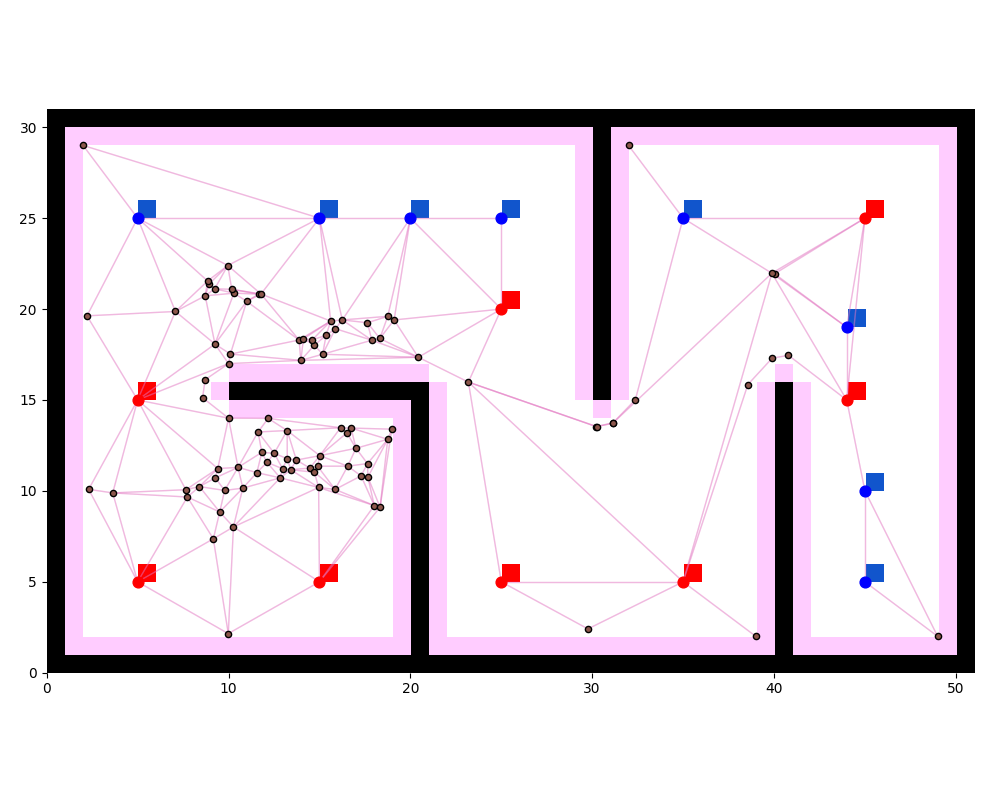
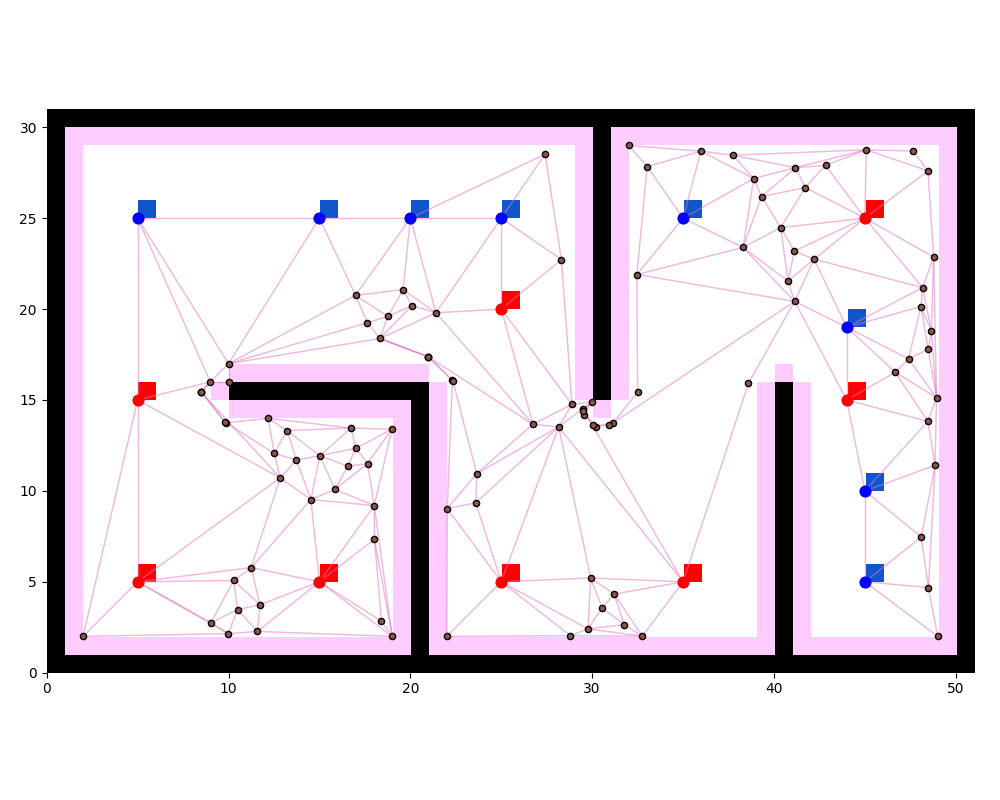
Using a duplicate radius to spread clusters

diff --git a/path_planning/cluster/em/graph_em.py b/path_planning/cluster/em/graph_em.py
@@ -17,6 +17,13 @@ components:
   the member node nearest the mean, so a center never sits inside an
   obstacle.
 
+EM has no repulsion between components — co-located duplicates are a
+stationary point of the likelihood — so free anchors additionally keep a
+minimum Euclidean spacing ``dup_radius``: a free component whose updated
+anchor would land within that radius of an already-placed anchor is
+treated as a duplicate and re-seeded at the node farthest from every
+anchor (the same rescue empty components get).
+
 Because Dijkstra needs graph sources, every component is anchored to a
 roadmap node (``center_node_indices``); the continuous ``centers`` are
 reporting/consumer-facing positions. After :meth:`fit`, one final
@@ -65,6 +72,11 @@ class GraphEM:
             is not strictly monotone across them).
         min_sigma: Floor on every component's sigma, preventing variance
             collapse onto a single node (default: the map resolution).
+        dup_radius: Minimum Euclidean spacing between anchors. A free
+            component whose updated anchor would land within this distance
+            of an already-placed anchor is re-seeded at the node farthest
+            from every anchor instead of duplicating it (default: the map
+            resolution; 0 disables the guard).
         init: Top-up seeding for the free components — ``"kpp"`` samples
             nodes with probability proportional to squared graph distance
             from the current anchors (k-means++ style, reproducible via the
@@ -104,6 +116,7 @@ class GraphEM:
         max_iters: int = 50,
         tol: float = 1e-6,
         min_sigma: Optional[float] = None,
+        dup_radius: Optional[float] = None,
         init: str = "kpp",
     ) -> None:
         if init not in _INIT_MODES:
@@ -126,6 +139,13 @@ class GraphEM:
         )
         if self.min_sigma <= 0.0:
             raise ValueError(f"min_sigma must be > 0, got {self.min_sigma}")
+        self.dup_radius = (
+            float(dup_radius)
+            if dup_radius is not None
+            else float(getattr(graph_map, "resolution", 1.0))
+        )
+        if self.dup_radius < 0.0:
+            raise ValueError(f"dup_radius must be >= 0, got {self.dup_radius}")
         self.init = init
 
         self._points = np.asarray([n.current for n in graph_map.nodes], dtype=float)
@@ -263,9 +283,16 @@ class GraphEM:
         Each extra anchor is drawn from the current graph-Voronoi residual:
         squared graph distance to the nearest existing anchor, sampled
         (``"kpp"``) or maximized (``"farthest"``). A drawn node has positive
-        distance, so it can never duplicate an existing anchor.
+        distance, so it can never duplicate an existing anchor; nodes
+        within ``dup_radius`` of one are also excluded while any other
+        candidate remains.
         """
         sources = list(fixed)
+        min_euclid = np.full(len(self._points), np.inf)
+        for s in sources:
+            min_euclid = np.minimum(
+                min_euclid, np.linalg.norm(self._points - self._points[s], axis=1)
+            )
         while len(sources) < self.n_clusters:
             _, dist, _ = multi_source_dijkstra(self._adj, sources)
             w = np.where(np.isfinite(dist), dist, 0.0) ** 2
@@ -278,11 +305,18 @@ class GraphEM:
                 )
                 self.n_clusters = len(sources)
                 break
+            spaced = np.where(min_euclid >= self.dup_radius, w, 0.0)
+            spaced_total = float(spaced.sum())
+            if spaced_total > 0.0:
+                w, total = spaced, spaced_total
             if self.init == "kpp":
                 nxt = int(np.random.choice(len(w), p=w / total))
             else:
                 nxt = int(np.argmax(w))
             sources.append(nxt)
+            min_euclid = np.minimum(
+                min_euclid, np.linalg.norm(self._points - self._points[nxt], axis=1)
+            )
         return sources
 
     def _init_params(self, sources: List[int]) -> Tuple[np.ndarray, np.ndarray]:
@@ -362,7 +396,10 @@ class GraphEM:
 
         Free anchors snap to the hard-member (argmax-responsibility) node
         nearest the weighted mean — hard members belong to exactly one
-        component, so anchors can never collide across components.
+        component, so anchors can never collide across components. An
+        anchor that would still land within ``dup_radius`` of an
+        already-placed one is a duplicate (EM never separates co-located
+        components) and is re-seeded like an empty component.
         """
         n_reach = max(int(reachable.sum()), 1)
         r = resp[:, reachable]
@@ -377,24 +414,33 @@ class GraphEM:
         hard[reachable] = np.argmax(resp[:, reachable], axis=0)
         new_sources = list(sources)
         taken = set(sources[:num_fixed])
+        placed = [self._points[s] for s in sources[:num_fixed]]
         min_dist = np.min(D, axis=0)
         global_rms = float(np.sqrt(np.mean(np.square(min_dist[reachable]))))
+
+        def reseed(k: int, reason: str) -> None:
+            cand = self._reseed_node(min_dist, taken, placed)
+            if cand is None:
+                logger.warning(
+                    "component %d is %s and cannot be re-seeded", k, reason
+                )
+                taken.add(new_sources[k])
+                placed.append(self._points[new_sources[k]])
+                return
+            new_sources[k] = cand
+            centers[k] = self._points[cand]
+            snapped[k] = True
+            taken.add(cand)
+            placed.append(self._points[cand])
+            # Give the re-seeded component a fresh chance in the next
+            # E-step instead of the starved parameters it converged to.
+            weights[k] = 1.0 / len(sources)
+            sigmas[k] = max(global_rms, self.min_sigma)
+
         for k in range(num_fixed, len(sources)):
             members = np.flatnonzero(hard == k)
             if members.size == 0:
-                cand = self._reseed_node(min_dist, taken)
-                if cand is None:
-                    logger.warning("component %d is empty and cannot be re-seeded", k)
-                    taken.add(new_sources[k])
-                    continue
-                new_sources[k] = cand
-                centers[k] = self._points[cand]
-                snapped[k] = True
-                taken.add(cand)
-                # Give the re-seeded component a fresh chance in the next
-                # E-step instead of the starved parameters it converged to.
-                weights[k] = 1.0 / len(sources)
-                sigmas[k] = max(global_rms, self.min_sigma)
+                reseed(k, "empty")
                 continue
             w_members = resp[k, members]
             mean = (
@@ -404,8 +450,12 @@ class GraphEM:
             nearest = int(
                 members[np.argmin(np.linalg.norm(self._points[members] - mean, axis=1))]
             )
+            if self._too_close(self._points[nearest], placed):
+                reseed(k, "a duplicate")
+                continue
             new_sources[k] = nearest
             taken.add(nearest)
+            placed.append(self._points[nearest])
             if self.map.point_expandable(tuple(mean)):
                 centers[k] = mean
                 snapped[k] = False
@@ -414,11 +464,30 @@ class GraphEM:
                 snapped[k] = True
         return weights / weights.sum(), sigmas, new_sources
 
-    def _reseed_node(self, min_dist: np.ndarray, taken: set) -> Optional[int]:
-        """Reachable node farthest from every anchor, not already an anchor."""
+    def _too_close(self, pos: np.ndarray, placed: List[np.ndarray]) -> bool:
+        """True if ``pos`` is within ``dup_radius`` of a placed anchor."""
+        if self.dup_radius <= 0.0 or not placed:
+            return False
+        d = np.linalg.norm(np.asarray(placed) - pos, axis=1)
+        return bool(np.min(d) < self.dup_radius)
+
+    def _reseed_node(
+        self, min_dist: np.ndarray, taken: set, placed: List[np.ndarray]
+    ) -> Optional[int]:
+        """Reachable node farthest from every anchor, not already an anchor.
+
+        Candidates within ``dup_radius`` of a placed anchor are skipped
+        while a spaced alternative exists; if none does, the farthest
+        non-anchor node is returned regardless.
+        """
         order = np.argsort(min_dist)[::-1]
+        fallback = None
         for idx in order:
             idx = int(idx)
-            if np.isfinite(min_dist[idx]) and min_dist[idx] > 0.0 and idx not in taken:
+            if not np.isfinite(min_dist[idx]) or min_dist[idx] <= 0.0 or idx in taken:
+                continue
+            if fallback is None:
+                fallback = idx
+            if not self._too_close(self._points[idx], placed):
                 return idx
-        return None
+        return fallback

diff --git a/tests/test_em.py b/tests/test_em.py
@@ -155,6 +155,18 @@ class TestGraphEM(unittest.TestCase):
             elif cx >= block_hi:
                 self.assertTrue(np.all(band[:, 0] > block_lo))
 
+    def test_free_anchor_spacing(self):
+        # Duplicate guard: EM never separates co-located components, so
+        # anchors must keep at least dup_radius of Euclidean spacing even
+        # at high K (without the guard most free anchors collapse into
+        # near-duplicate pairs).
+        set_global_seed(3)
+        em = GraphEM(self.map_, len(SEEDS) + 20).fit(SEEDS)
+        anchors = em._points[em.center_node_indices]
+        d = np.linalg.norm(anchors[:, None, :] - anchors[None, :, :], axis=2)
+        d[np.diag_indices_from(d)] = np.inf
+        self.assertGreaterEqual(float(d.min()), em.dup_radius)
+
     def test_reproducibility(self):
         set_global_seed(7)
         a = GraphEM(self.map_, K).fit(SEEDS)
@@ -174,6 +186,8 @@ class TestGraphEM(unittest.TestCase):
             GraphEM(self.map_, K, init="bogus")
         with self.assertRaises(ValueError):
             GraphEM(self.map_, K, min_sigma=0.0)
+        with self.assertRaises(ValueError):
+            GraphEM(self.map_, K, dup_radius=-1.0)
 
     def test_ctopprm_em_clustering(self):
         set_global_seed(42)
